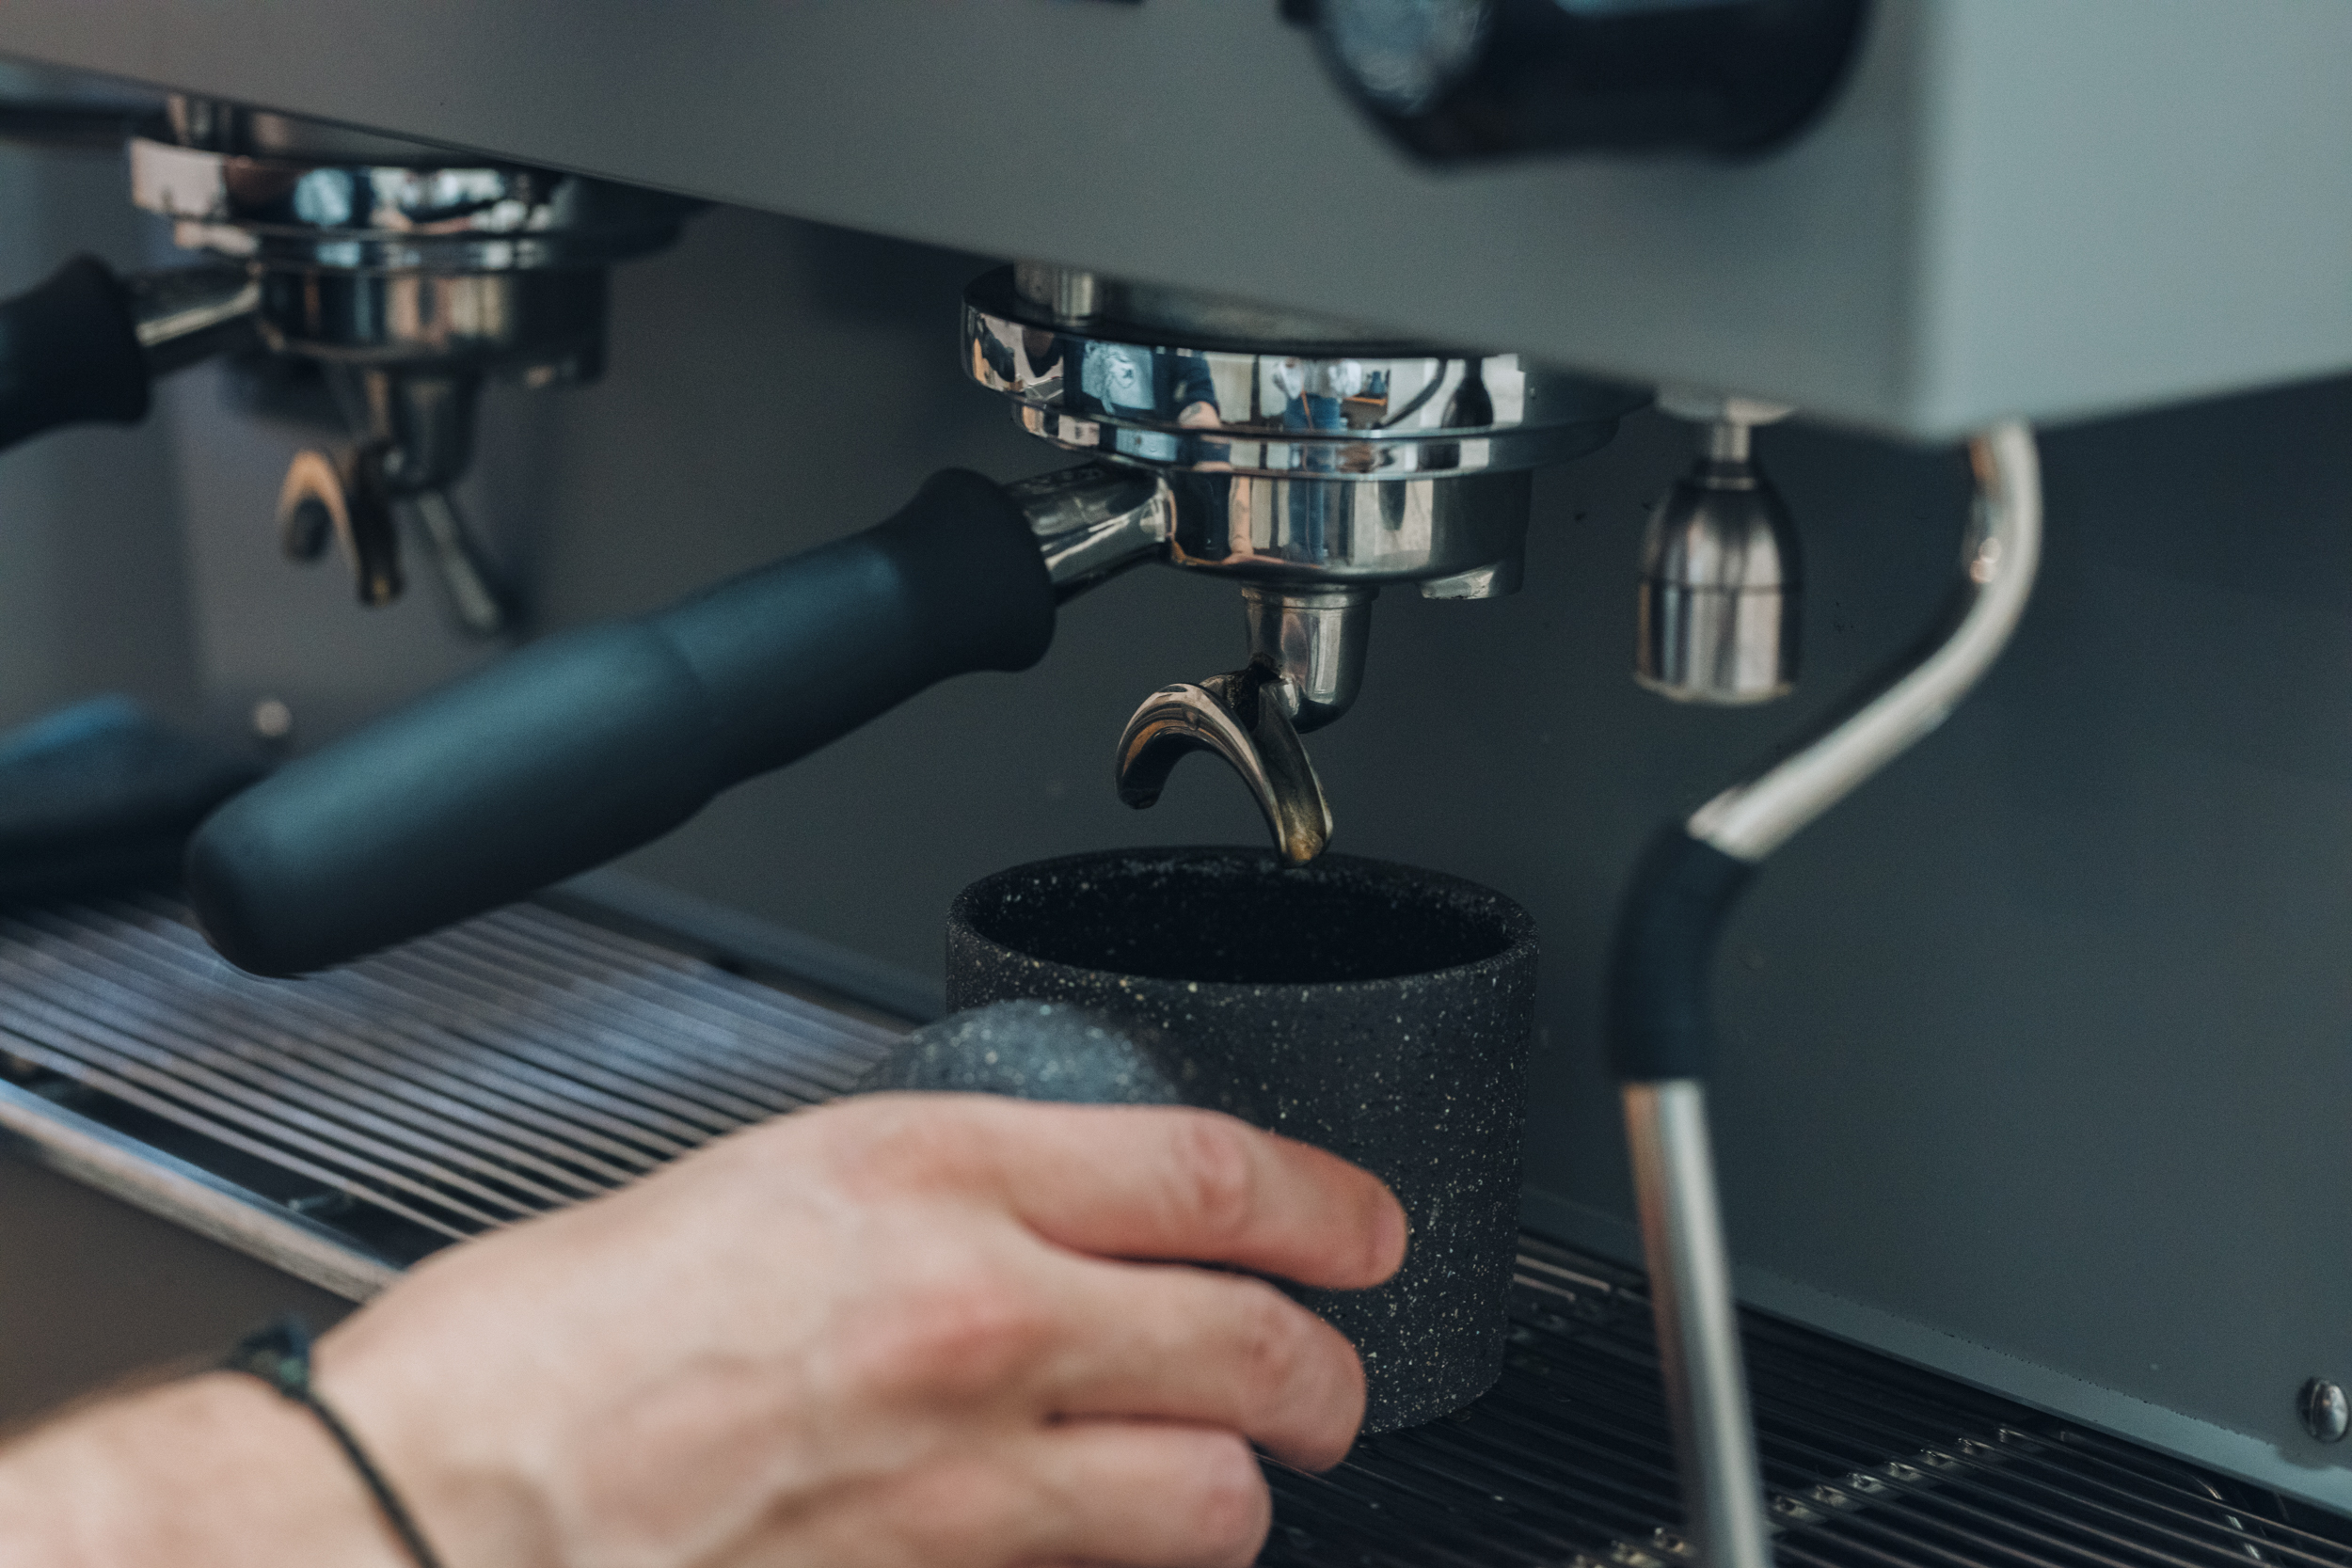
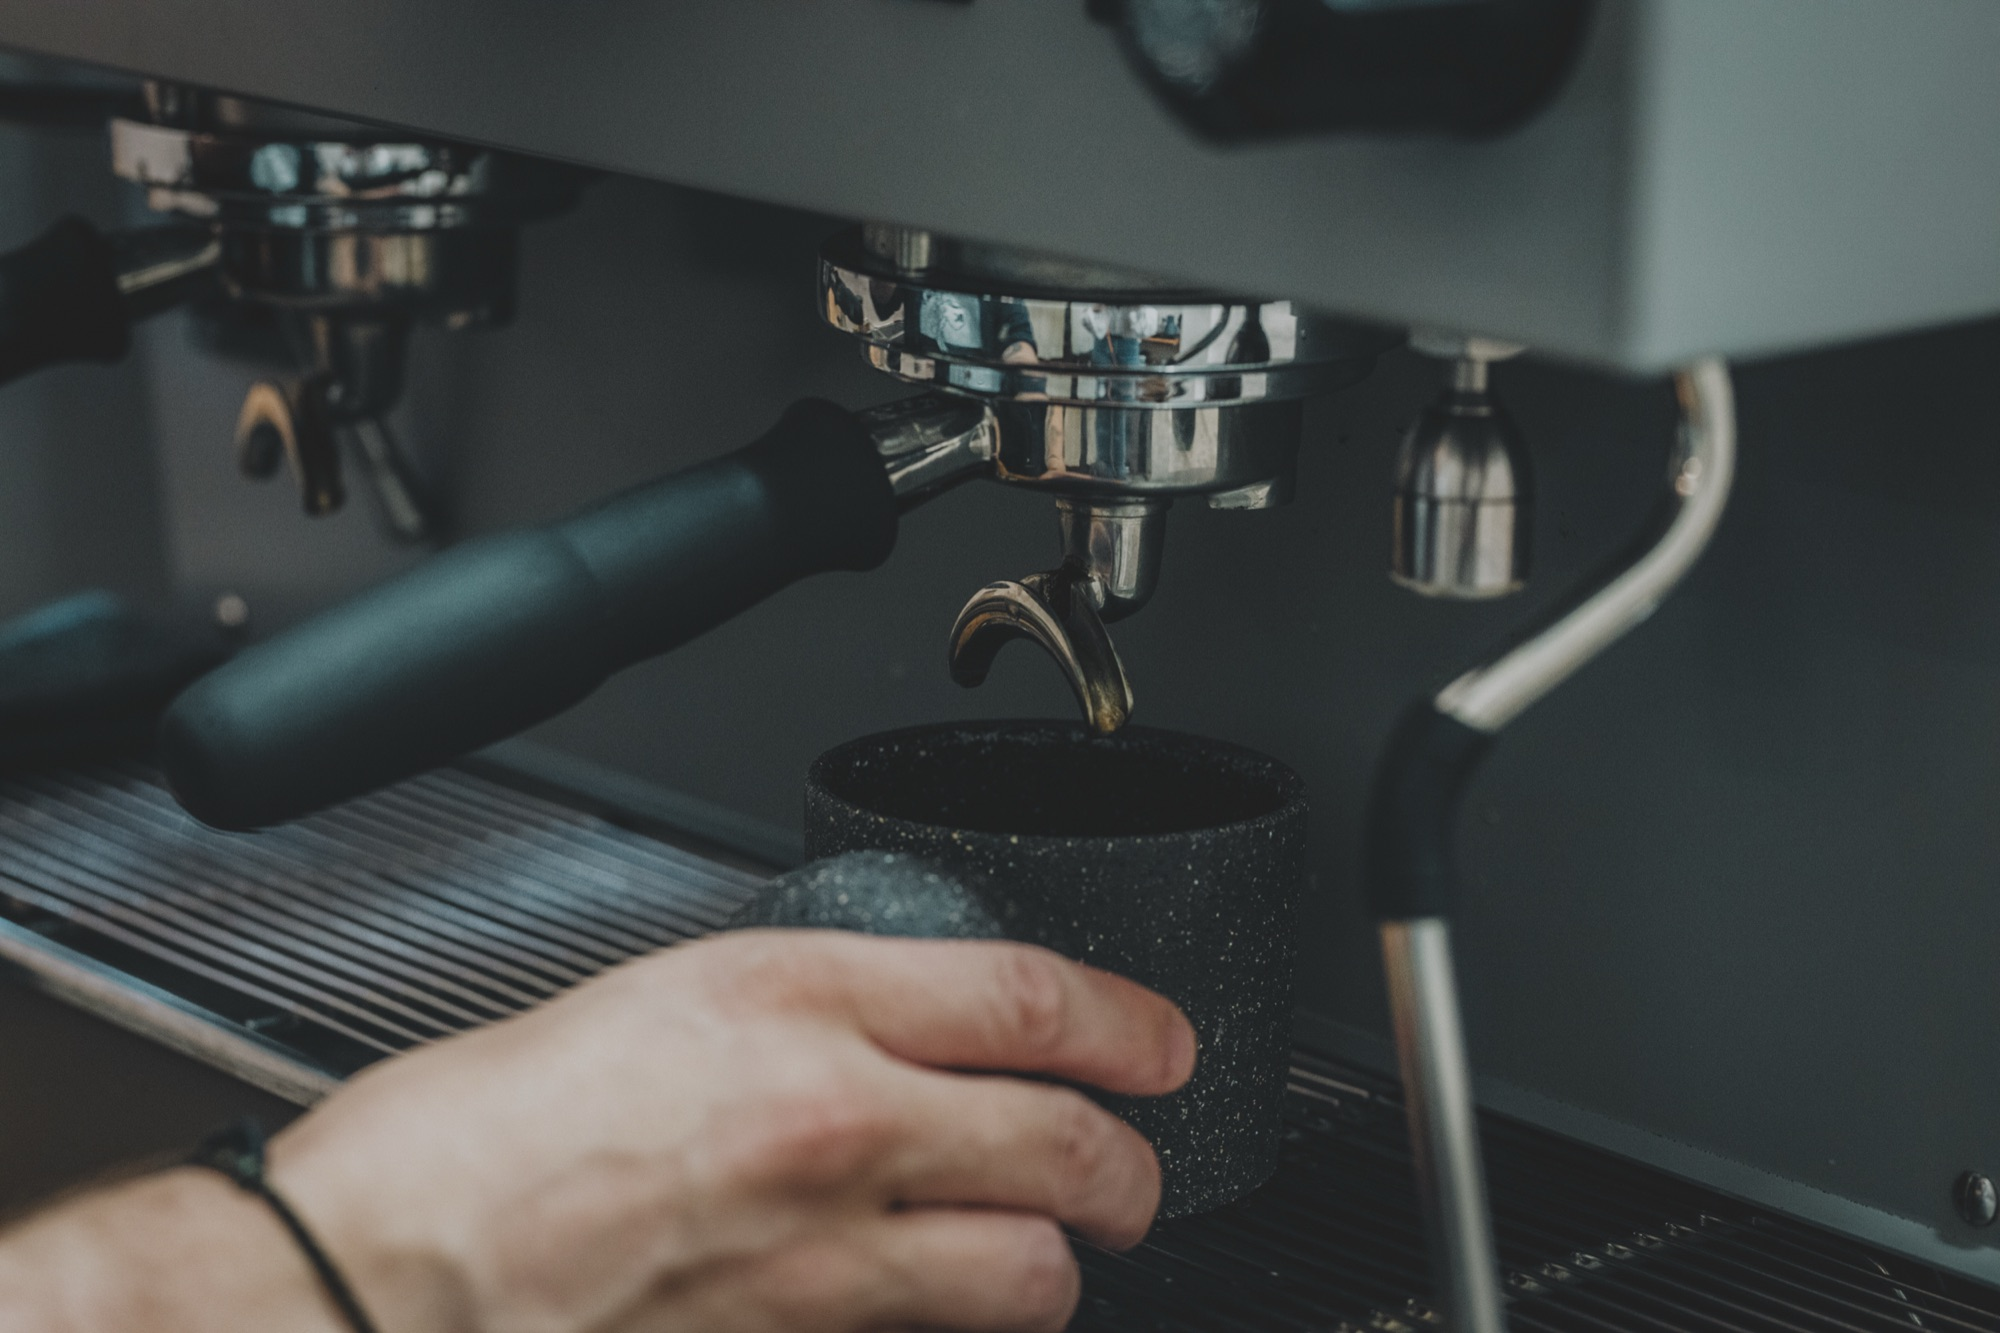
Add cross-fading hero (3 photos) with subtle scroll parallax + section reveals
Hero cycles 3 images with a slow dissolve; gentle scroll-linked parallax, caption drift/fade, and section reveals. All reduced-motion aware and JS-optional. Hero 2/3 are CMS-swappable (Site Photos). Images optimized to 2000px.

diff --git a/js/site.js b/js/site.js
@@ -192,10 +192,68 @@
     return l ? l.qty : 0;
   }
 
+  /* ---------- hero: slow crossfade through the images ---------- */
+  function initHeroCrossfade() {
+    var imgs = document.querySelectorAll(".hero__media .hero__img");
+    if (imgs.length < 2) return;
+    if (window.matchMedia && window.matchMedia("(prefers-reduced-motion: reduce)").matches) return;
+    var i = 0;
+    setInterval(function () {
+      imgs[i].classList.remove("is-active");
+      i = (i + 1) % imgs.length;
+      imgs[i].classList.add("is-active");
+    }, 5400);
+  }
+
+  /* ---------- subtle scroll motion: hero parallax + caption drift ---------- */
+  function initScrollFX() {
+    var hero = document.querySelector(".hero");
+    var media = hero && hero.querySelector(".hero__media");
+    var inner = hero && hero.querySelector(".hero__inner");
+    if (!hero || !media) return;
+    if (window.matchMedia && window.matchMedia("(prefers-reduced-motion: reduce)").matches) return;
+    var ticking = false;
+    function update() {
+      var y = window.scrollY || window.pageYOffset || 0;
+      var h = hero.offsetHeight || window.innerHeight;
+      var p = Math.max(0, Math.min(1, y / h));
+      media.style.transform = "translate3d(0," + (y * 0.12).toFixed(1) + "px,0)";
+      if (inner) {
+        inner.style.transform = "translate3d(0," + (y * 0.22).toFixed(1) + "px,0)";
+        inner.style.opacity = (1 - p * 0.85).toFixed(3);
+      }
+      ticking = false;
+    }
+    window.addEventListener("scroll", function () {
+      if (!ticking) { window.requestAnimationFrame(update); ticking = true; }
+    }, { passive: true });
+    update();
+  }
+
+  /* ---------- reveal sections as they scroll into view ---------- */
+  function initReveals() {
+    var els = document.querySelectorAll(".reveal");
+    if (!els.length) return;
+    var reduce = window.matchMedia && window.matchMedia("(prefers-reduced-motion: reduce)").matches;
+    if (reduce || !("IntersectionObserver" in window)) {
+      els.forEach(function (el) { el.classList.add("in"); });
+      return;
+    }
+    var io = new IntersectionObserver(function (entries) {
+      entries.forEach(function (e) {
+        if (e.isIntersecting) { e.target.classList.add("in"); io.unobserve(e.target); }
+      });
+    }, { threshold: 0.15, rootMargin: "0px 0px -8% 0px" });
+    els.forEach(function (el) { io.observe(el); });
+  }
+
   /* ---------- boot ---------- */
   document.addEventListener("DOMContentLoaded", function () {
     initNav();
     initAddButtons();
+    initHeroCrossfade();
+    initScrollFX();
+    initReveals();
     paint();                                  // cart count (localStorage only)
     if (window.onData) window.onData(paint);  // render cart lines once content loads
   });

diff --git a/css/site.css b/css/site.css
@@ -170,12 +170,16 @@ button{font-family:inherit; cursor:pointer;}
   position:relative; height:100vh; min-height:640px; overflow:hidden;
   background:var(--obsidian); color:var(--chalk);
 }
-.hero__media{ position:absolute; inset:0; }
-.hero__media img, .hero__media video{
-  width:100%; height:100%; object-fit:cover;
-  animation:slowzoom 24s ease-in-out infinite alternate;
+.hero__media{ position:absolute; left:0; right:0; top:-16%; height:116%; will-change:transform; }
+.hero__media video{ width:100%; height:100%; object-fit:cover; animation:slowzoom 24s ease-in-out infinite alternate; }
+/* three stacked hero photos that slowly cross-fade (cycled by js/site.js) */
+.hero__img{
+  position:absolute; inset:0; width:100%; height:100%; object-fit:cover;
+  opacity:0; transition:opacity 1.6s ease;
+  animation:slowzoom 28s ease-in-out infinite alternate;
 }
-@keyframes slowzoom{ from{ transform:scale(1.02); } to{ transform:scale(1.1); } }
+.hero__img.is-active{ opacity:1; }
+@keyframes slowzoom{ from{ transform:scale(1.03); } to{ transform:scale(1.12); } }
 .hero__veil{
   position:absolute; inset:0;
   background:linear-gradient(180deg, rgba(0,0,0,0.5) 0%, rgba(0,0,0,0.05) 26%,
@@ -219,6 +223,17 @@ button{font-family:inherit; cursor:pointer;}
   display:flex; justify-content:space-between; align-items:flex-end; margin-bottom:64px;
 }
 .selected__head .display{ font-size:clamp(30px, 3.4vw, 44px); margin-top:18px; }
+
+/* scroll reveals (home) + motion guards. the .js gate keeps content visible if JS is off */
+html.js .reveal{ opacity:0; transform:translateY(20px); transition:opacity .9s ease, transform .9s cubic-bezier(.2,.7,.2,1); }
+html.js .reveal.in{ opacity:1; transform:none; }
+html.js .reveal--late{ transition-delay:.12s; }
+@media (prefers-reduced-motion: reduce){
+  .hero__img{ animation:none; }
+  .hero__media, .hero__inner{ transform:none !important; }
+  .hero__inner{ opacity:1 !important; }
+  html.js .reveal{ opacity:1; transform:none; transition:none; }
+}
 
 /* ============================================================
    PRODUCT GRID  (shop + teasers)

diff --git a/index.html b/index.html
@@ -2,6 +2,7 @@
 <html lang="en">
 <head>
 <meta charset="utf-8" />
+<script>document.documentElement.classList.add('js');</script>
 <title>Spencer Ceramics — Hand-thrown vessels from Tasmania</title>
 <meta name="viewport" content="width=device-width, initial-scale=1" />
 <meta name="description" content="Quiet, hand-thrown stoneware and porcelain. Made and signed by Spencer in a small studio in Tasmania. Released in small editions." />
@@ -39,8 +40,10 @@
     </nav>
 
     <div class="hero__media">
-      <!-- Swap this <img> for a <video autoplay muted loop playsinline> when you have the wheel footage -->
-      <img src="images/hero.jpg" alt="Hands shaping a vessel at the wheel" data-media="hero" />
+      <!-- Three photos slowly cross-fade. Swap any via /admin/ (Site Photos) or the images/ folder. -->
+      <img class="hero__img is-active" src="images/sc_cups-shoot_001.jpg" alt="Pulling an espresso shot into a hand-thrown cup" data-media="hero" />
+      <img class="hero__img" src="images/hero-2.jpg" alt="" aria-hidden="true" data-media="hero-2" />
+      <img class="hero__img" src="images/hero-3.jpg" alt="" aria-hidden="true" data-media="hero-3" />
     </div>
     <div class="hero__veil"></div>
 
@@ -61,7 +64,7 @@
 
   <!-- STUDIO -->
   <section class="studio" id="studio">
-    <div class="studio__text">
+    <div class="studio__text reveal">
       <div class="label">The studio</div>
       <h2 class="display">Made and signed<br />by one pair<br />of hands.</h2>
       <p>Spencer works from a small studio at the edge of the bush, throwing stoneware and porcelain and firing in small batches. Every piece carries the marks of how it was made — no two are the same.</p>
@@ -69,14 +72,14 @@
         <a class="link-underline" href="shop.html">See the current edition <span>→</span></a>
       </div>
     </div>
-    <div class="studio__media">
+    <div class="studio__media reveal reveal--late">
       <img src="images/studio.jpg" alt="The studio" data-media="studio" />
     </div>
   </section>
 
   <!-- SELECTED WORK -->
   <section class="selected">
-    <div class="selected__head">
+    <div class="selected__head reveal">
       <div>
         <div class="label">Selected work</div>
         <h2 class="display">Fourteen pieces,<br />released today.</h2>
@@ -84,7 +87,7 @@
       <a class="link-underline" href="shop.html">All work <span>→</span></a>
     </div>
 
-    <div class="grid grid--three" id="teaser"></div>
+    <div class="grid grid--three reveal reveal--late" id="teaser"></div>
   </section>
 
   <!-- FOOTER -->

diff --git a/js/media.js b/js/media.js
@@ -10,6 +10,8 @@
 window.MEDIA = {
   /* full-bleed / feature images */
   "hero":        "50% 42%",
+  "hero-2":      "50% 50%",
+  "hero-3":      "50% 50%",
   "studio":      "50% 50%",
   "about":       "50% 38%",
   "process-1":   "50% 50%",